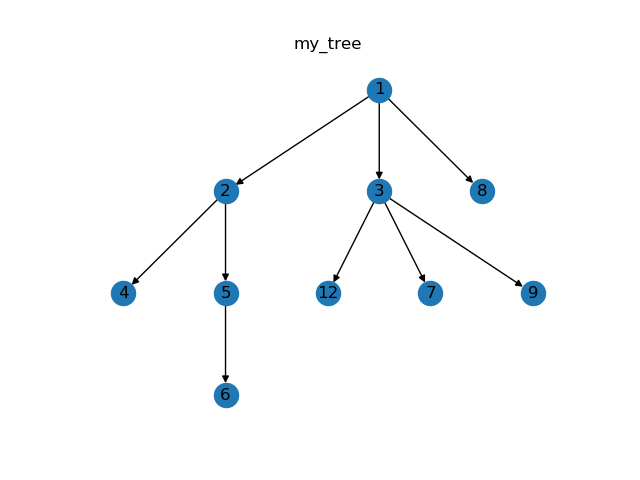
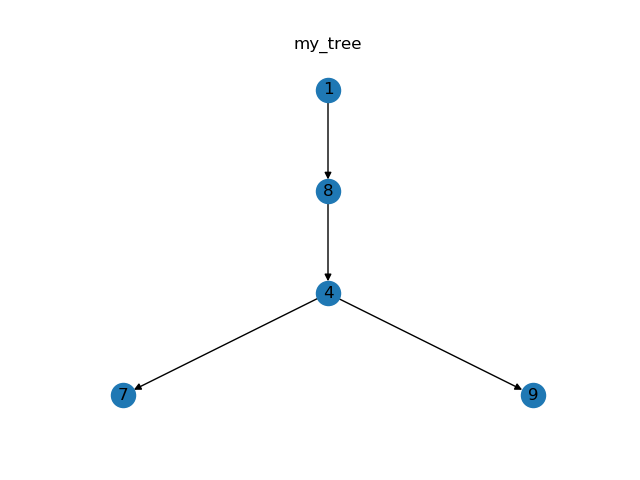
Add files via upload

diff --git a/Trees/Trees/Classes/Paths.py b/Trees/Trees/Classes/Paths.py
@@ -17,6 +17,39 @@ class Paths():
         self.__cursor.execute("SELECT " + self.__path + " FROM " + self.__tableName + " WHERE " + self.__node + " = '" + to + "'")
         path = self.__cursor.fetchone()[0] + "/" + node
         self.__cursor.execute("INSERT INTO " + self.__tableName + " (" + self.__node + ", " + self.__path + ") VALUES ('" + node + "', '" + path + "')")
+
+    def del_node(self, node):
+        self.__cursor.execute("SELECT " + self.__path + " FROM " + self.__tableName + " WHERE " + self.__node + " = " + node)
+        check = self.__cursor.fetchone()[0]
+        self.__cursor.execute("DELETE FROM " + self.__tableName + " WHERE " + self.__node + " = " + node)
+        if check == node:
+            self.__cursor.execute("UPDATE " + self.__tableName + " SET " + self.__path + " = REPLACE(" + self.__path + ", '" + node + "/', '') WHERE " + self.__path + " REGEXP '" + node + "/'")
+        else:
+            self.__cursor.execute("UPDATE " + self.__tableName + " SET " + self.__path + " = REPLACE(" + self.__path + ", '" + node + "/', '') WHERE " + self.__path + " REGEXP '/" + node + "/'")
+
+    def del_sbtr(self, node):
+        self.__cursor.execute("SELECT " + self.__path + " FROM " + self.__tableName + " WHERE " + self.__node + " = " + node)
+        check = self.__cursor.fetchone()[0]
+        self.__cursor.execute("DELETE FROM " + self.__tableName + " WHERE " + self.__node + " = " + node)
+        if check == node:
+            self.__cursor.execute("DELETE FROM " + self.__tableName + " WHERE " + self.__node + " REGEXP '" + node + "/'")
+        else:
+            self.__cursor.execute("DELETE FROM " + self.__tableName + " WHERE " + self.__node + " REGEXP '/" + node + "/'")
+        
+        
+    def move_node(self, node, to):
+        self.del_node(node)
+        self.insert(to, node)
+
+    def move_sbtr(self, node, to):
+        self.__cursor.execute("SELECT " + self.__path + " FROM " + self.__tableName + " WHERE " + self.__node + " = " + node)
+        n = self.__cursor.fetchone()[0]
+        self.__cursor.execute("SELECT " + self.__path + " FROM " + self.__tableName + " WHERE " + self.__node + " = " + to)
+        m = self.__cursor.fetchone()[0]
+        self.__cursor.execute("UPDATE " + self.__tableName + " SET " + self.__path + " = '" + m + "/" + node + "' WHERE " + self.__node + " = " + node)
+        self.__cursor.execute("UPDATE " + self.__tableName + " SET " + self.__path + " = REPLACE(" + self.__path + ", '" + n + "', '" + m + "/" + node + "') WHERE " + self.__path + " REGEXP '" + n + "'")
+
+
     """
     def getEdges(self, G, i):
         self.__cursor.execute("SELECT " + self.__node + " FROM " + self.__tableName + " WHERE " + self.__path + " REGEXP '" + i + "/.$'")
@@ -53,7 +86,6 @@ class Paths():
                     G.add_edge(root, u[len(u)-1])
                     self.getEdges(G, u[len(u)-1], data)
         print('-----------------------------------------')
-        
    
     def getGraph(self, G):
         data = {}
